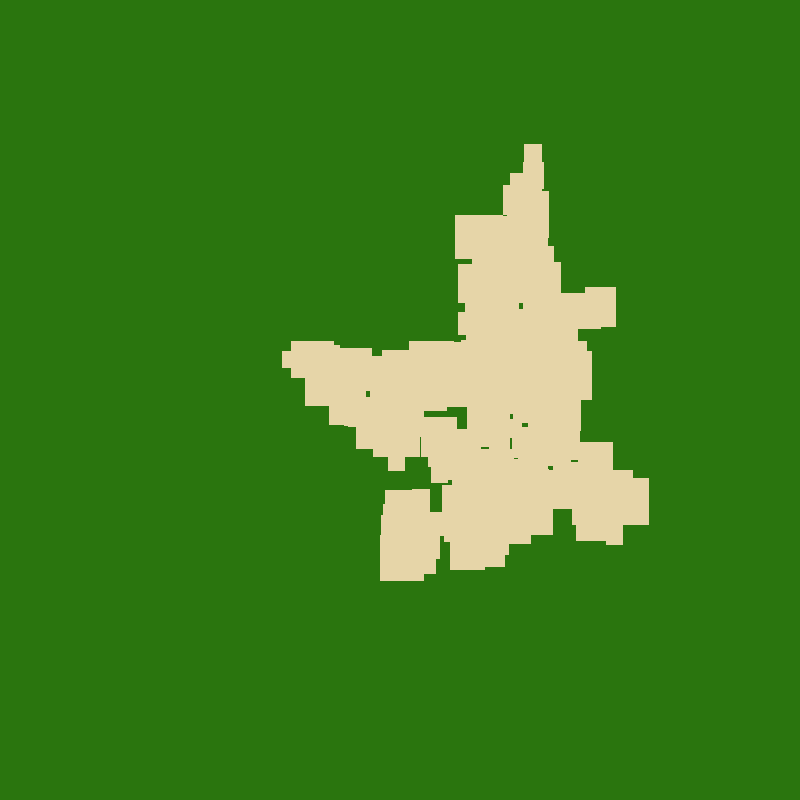
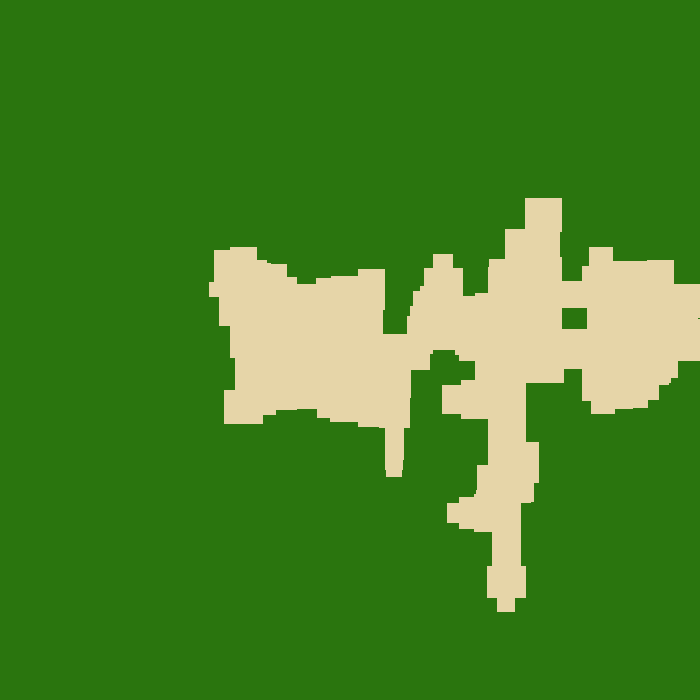
remove artefact, smooth map

Changed region(s): [[0.3, 0.18, 1.0, 0.87]]

diff --git a/src/main.rs b/src/main.rs
@@ -1,3 +1,4 @@
+#[allow(unused_imports)]
 use std::{thread, vec};
 
 // RNG
@@ -5,6 +6,7 @@ use rand::{Rng, SeedableRng};
 use rand_chacha::ChaCha8Rng;
 // Image creation
 use image::ImageBuffer;
+
 type Grid = Vec<Vec<Tile>>;
 #[allow(dead_code)]
 #[derive(Clone, Copy, PartialEq, Eq)]
@@ -17,7 +19,7 @@ enum TileType {
     Water,
     Forest,
 }
-
+#[derive(Clone)]
 struct Biome {
     name: String,
     // odds: f32,
@@ -44,12 +46,12 @@ struct Tile {
 //     (1, 1),
 // ];
 
-// const DIRECTIONS_INTDOOR: [(i32, i32); 4] = [
-//     (0, -1), // ↑
-//     (0, 1),  // ↓
-//     (-1, 0), // ←
-//     (1, 0),  // →
-// ];
+const DIRECTIONS_INTDOOR: [(i32, i32); 4] = [
+    (0, -1), // ↑
+    (0, 1),  // ↓
+    (-1, 0), // ←
+    (1, 0),  // →
+];
 
 fn main() {
     // Create random generator from seed
@@ -76,8 +78,8 @@ fn main() {
                 (-1, 1),
                 (1, 1),
             ],
-            generation_init_center: (500, 500),
-            generation_area_size: (1000, 1000),
+            generation_init_center: (350, 350),
+            generation_area_size: (700, 700),
         },
         Biome {
             name: String::from("Forest"),
@@ -87,8 +89,8 @@ fn main() {
             rng_range_number_of_direction_changes: (20, 30),
             rng_range_direction_repeat: (5, 10),
             allowed_directions: vec![(0, -1), (0, 1), (-1, 0), (1, 0)],
-            generation_init_center: (400, 400),
-            generation_area_size: (800, 800),
+            generation_init_center: (350, 350),
+            generation_area_size: (700, 700),
         },
         Biome {
             name: String::from("Island"),
@@ -107,8 +109,8 @@ fn main() {
                 (-1, 1),
                 (-1, -1),
             ],
-            generation_init_center: (400, 400),
-            generation_area_size: (800, 800),
+            generation_init_center: (350, 350),
+            generation_area_size: (700, 700),
         },
         Biome {
             name: String::from("Quarry"),
@@ -118,8 +120,8 @@ fn main() {
             rng_range_number_of_direction_changes: (30, 40),
             rng_range_direction_repeat: (10, 15),
             allowed_directions: vec![(1, -1), (1, 1), (-1, 1), (-1, -1)],
-            generation_init_center: (400, 400),
-            generation_area_size: (800, 800),
+            generation_init_center: (350, 350),
+            generation_area_size: (700, 700),
         },
         Biome {
             name: String::from("Ledge"),
@@ -129,56 +131,55 @@ fn main() {
             rng_range_number_of_direction_changes: (20, 30),
             rng_range_direction_repeat: (10, 15),
             allowed_directions: vec![(1, -1), (1, 1), (-1, 1)],
-            generation_init_center: (100, 100),
-            generation_area_size: (800, 800),
-        },
-        Biome {
-            name: String::from("Superu"),
-            // odds: 1.0,
-            oob_type: TileType::Wall,
-            rng_range_multiplicator_rectangle_size: (0.01, 0.020),
-            rng_range_number_of_direction_changes: (1, 2),
-            rng_range_direction_repeat: (40, 65),
-            allowed_directions: vec![(0, -1), (1, 0)],
-            generation_init_center: (400, 400),
-            generation_area_size: (800, 800),
+            generation_init_center: (50, 50),
+            generation_area_size: (700, 700),
         },
     ];
-
+    // let mut biome2 = biomes.to_vec();
     // let mut handlers = Vec::new();
-    // while let Some(biome) = biomes.pop() {
+    // while let Some(biome) = biome2.pop() {
+    //     biome3 = biomes.to_vec();
     //     handlers.push(thread::spawn(move || {
-    //         generate_map(seed, &biome);
+    //         generate_map(seed, &biome, biomes.to_vec());
     //     }));
     // }
     // for handler in handlers {
     //     handler.join().unwrap();
     // }
-    for biome in biomes {
-        generate_map(seed, &biome);
+    for i in 0..biomes.len() {
+        generate_map(seed, &biomes[i], biomes.to_vec());
     }
 }
 
-fn generate_map(seed: u64, biome: &Biome) {
-    println!("-----For Biome {}", biome.name);
+fn generate_map(seed: u64, init_biome: &Biome, biomes: Vec<Biome>) {
+    // The rng instance is created from the seed
     let mut rng: ChaCha8Rng = ChaCha8Rng::seed_from_u64(seed);
 
-    // let test: f32 = f32::sin(4.0);
-    // println!("Sin is {}", test);
+    // Roll initial biome, which defines the out of bound tile type
+    // let biome = biomes[rng.gen_range(0..biomes.len())];
+    println!("-----For Biome {}", init_biome.name);
+    let oob_tiletype = init_biome.oob_type;
 
-    // Init grid
+    // Initialize map grid from initial biome and oob tile type
     let mut grid: Grid = init_grid(
-        biome.generation_area_size.0,
-        biome.generation_area_size.1,
-        biome.oob_type,
+        init_biome.generation_area_size.0,
+        init_biome.generation_area_size.1,
+        oob_tiletype,
     );
 
-    // remplir de watter ou wall
-    // Pause une grosse forme, square only
-    // partir d'un point qui touche le side ( ou un des neighbor est de l'eau ou du wall)
-    // On joue sur le nombre, la tailler et le type de formes most likely, les range sont definis par les biomes.
-    // Definir des suite de dirrection predefinies, genre left right up down, ou full droite
-    generate_walkable_layout(&mut grid, biome, &mut rng);
+    // genrate walkable paths based on a random selection of possible biomes
+    let mut biome = init_biome;
+    let mut center = init_biome.generation_init_center;
+    for _ in 0..3 {
+        center = generate_walkable_layout(&mut grid, biome, &mut rng, oob_tiletype, center);
+        biome = &biomes[rng.gen_range(0..biomes.len())];
+    }
+
+    // remove small clusters of oob tiles
+    remove_small_cluster(&mut grid, oob_tiletype, 10, false, true);
+    remove_small_cluster(&mut grid, oob_tiletype, 10, true, false);
+    remove_small_cluster(&mut grid, oob_tiletype, 10, false, true);
+
     // add_tile(
     //     &mut grid,
     //     rng.gen_range(0..width) as usize,
@@ -195,17 +196,108 @@ fn generate_map(seed: u64, biome: &Biome) {
     // TODO
 
     // print grid
-    render_grid(&grid, biome.name.clone());
+    render_grid(&grid, init_biome.name.clone());
 }
 
-fn generate_walkable_layout(grid: &mut Grid, biome: &Biome, rng: &mut ChaCha8Rng) {
-    // input on definie si c'est de l'eau ou du mur en dehors
-    // on fait des appels successifs a draw rectangle
-    // definir l'impact des weight sur la generation ici
-    // on posse une tile initiale, puis on choisis un edge a un non walkable, on roll la taille du rectangle un offset du centre, et on draw le rectangle
+fn remove_small_cluster(
+    grid: &mut Grid,
+    oob_tiletype: TileType,
+    cluster_size: usize,
+    check_x: bool,
+    check_y: bool,
+) {
+    let mut tiles_to_fill = Vec::new();
+    // for all tiles
+    for x in 0..grid.len() {
+        for y in 0..grid[0].len() {
+            // if we are on a oob tile type
+            if grid[x][y].tile_type == oob_tiletype
+                && (x + cluster_size) < grid.len()
+                && (x as i32 - cluster_size as i32) > 0
+                && (y + cluster_size) < grid[0].len()
+                && (y as i32 - cluster_size as i32) > 0
+            {
+                // check in each direction if there is a walkable tile next to it
+                let mut is_floor_up: bool = false;
+                let mut is_floor_bottom: bool = false;
+                let mut is_floor_left: bool = false;
+                let mut is_floor_right: bool = false;
+                let mut floor_up_at = 0;
+                let mut floor_bottom_at = 0;
+                let mut floor_left_at = 0;
+                let mut floor_right_at = 0;
+                for i in 1..cluster_size {
+                    if grid[x + i][y].tile_type == TileType::Floor {
+                        is_floor_right = true;
+                        floor_right_at = i;
+                    }
+                    if grid[x - i][y].tile_type == TileType::Floor {
+                        is_floor_left = true;
+                        floor_left_at = i;
+                    }
+                    if grid[x][y + i].tile_type == TileType::Floor {
+                        is_floor_bottom = true;
+                        floor_bottom_at = i;
+                    }
+                    if grid[x][y - i].tile_type == TileType::Floor {
+                        is_floor_up = true;
+                        floor_up_at = i;
+                    }
+                }
+                if check_x && check_y {
+                    if is_floor_right && is_floor_left && is_floor_bottom && is_floor_up {
+                        for i in 1..floor_bottom_at {
+                            tiles_to_fill.push((x, y + i));
+                        }
+                        for i in 1..floor_up_at {
+                            tiles_to_fill.push((x, y - i));
+                        }
+                        for i in 1..floor_left_at {
+                            tiles_to_fill.push((x - i, y));
+                        }
+                        for i in 1..floor_right_at {
+                            tiles_to_fill.push((x + i, y));
+                        }
+                        tiles_to_fill.push((x, y));
+                    }
+                } else {
+                    if (check_x) && is_floor_right && is_floor_left {
+                        for i in 1..floor_left_at {
+                            tiles_to_fill.push((x - i, y));
+                        }
+                        for i in 1..floor_right_at {
+                            tiles_to_fill.push((x + i, y));
+                        }
+                        tiles_to_fill.push((x, y));
+                    }
+
+                    if (check_y) && is_floor_bottom && is_floor_up {
+                        for i in 1..floor_bottom_at {
+                            tiles_to_fill.push((x, y + i));
+                        }
+                        for i in 1..floor_up_at {
+                            tiles_to_fill.push((x, y - i));
+                        }
+                        tiles_to_fill.push((x, y));
+                    }
+                }
+            }
+        }
+    }
+
+    for tile in tiles_to_fill {
+        add_tile(grid, tile.0, tile.1, TileType::Floor);
+    }
+}
+fn generate_walkable_layout(
+    grid: &mut Grid,
+    biome: &Biome,
+    rng: &mut ChaCha8Rng,
+    oob_tiletype: TileType,
+    start_center: (i32, i32),
+) -> (i32, i32) {
     let gridsize = grid.len() as i32;
-    let init_center = biome.generation_init_center;
-    // on fait le premier rectengle au centre
+
     draw_rectangle(
         grid,
         TileType::Floor,
@@ -223,17 +315,14 @@ fn generate_walkable_layout(grid: &mut Grid, biome: &Biome, rng: &mut ChaCha8Rng
                 ))
             .round() as i32,
         ),
-        init_center,
+        start_center,
     );
 
-    let mut center: (i32, i32) = init_center;
+    let mut center: (i32, i32) = start_center;
     for _ in 0..rng.gen_range(
         biome.rng_range_number_of_direction_changes.0
             ..biome.rng_range_number_of_direction_changes.1,
     ) {
-        // on cherche un nouveau centre , depuis la position du precedent, avec une range maximum et un angle de recherche
-        // on pause des point au hazard dans la zone possible jusq'a tomber sur du sol
-        // quand on touche le sol, on cherge un edge sur une dirrection ( direction est haut bas gauche ou droite, on pouras donner des poids a chaque via le biome)
         let iterrations: i32 =
             rng.gen_range(biome.rng_range_direction_repeat.0..biome.rng_range_direction_repeat.1);
 
@@ -241,7 +330,7 @@ fn generate_walkable_layout(grid: &mut Grid, biome: &Biome, rng: &mut ChaCha8Rng
             let direction: (i32, i32) =
                 biome.allowed_directions[rng.gen_range(0..biome.allowed_directions.len())];
 
-            center = find_point_on_edge(grid, center, biome, direction);
+            center = find_point_on_edge(grid, center, oob_tiletype, direction);
             draw_rectangle(
                 grid,
                 TileType::Floor,
@@ -263,12 +352,13 @@ fn generate_walkable_layout(grid: &mut Grid, biome: &Biome, rng: &mut ChaCha8Rng
             );
         }
     }
+    center
 }
 
 fn find_point_on_edge(
     grid: &Grid,
     previous_center: (i32, i32),
-    biome: &Biome,
+    oob_tiletype: TileType,
     direction: (i32, i32),
 ) -> (i32, i32) {
     let mut current_position = previous_center;
@@ -279,7 +369,7 @@ fn find_point_on_edge(
         && grid[(current_position.0 + direction.0) as usize]
             [(current_position.1 + direction.1) as usize]
             .tile_type
-            != biome.oob_type
+            != oob_tiletype
     {
         current_position = (
             (current_position.0 + direction.0),
